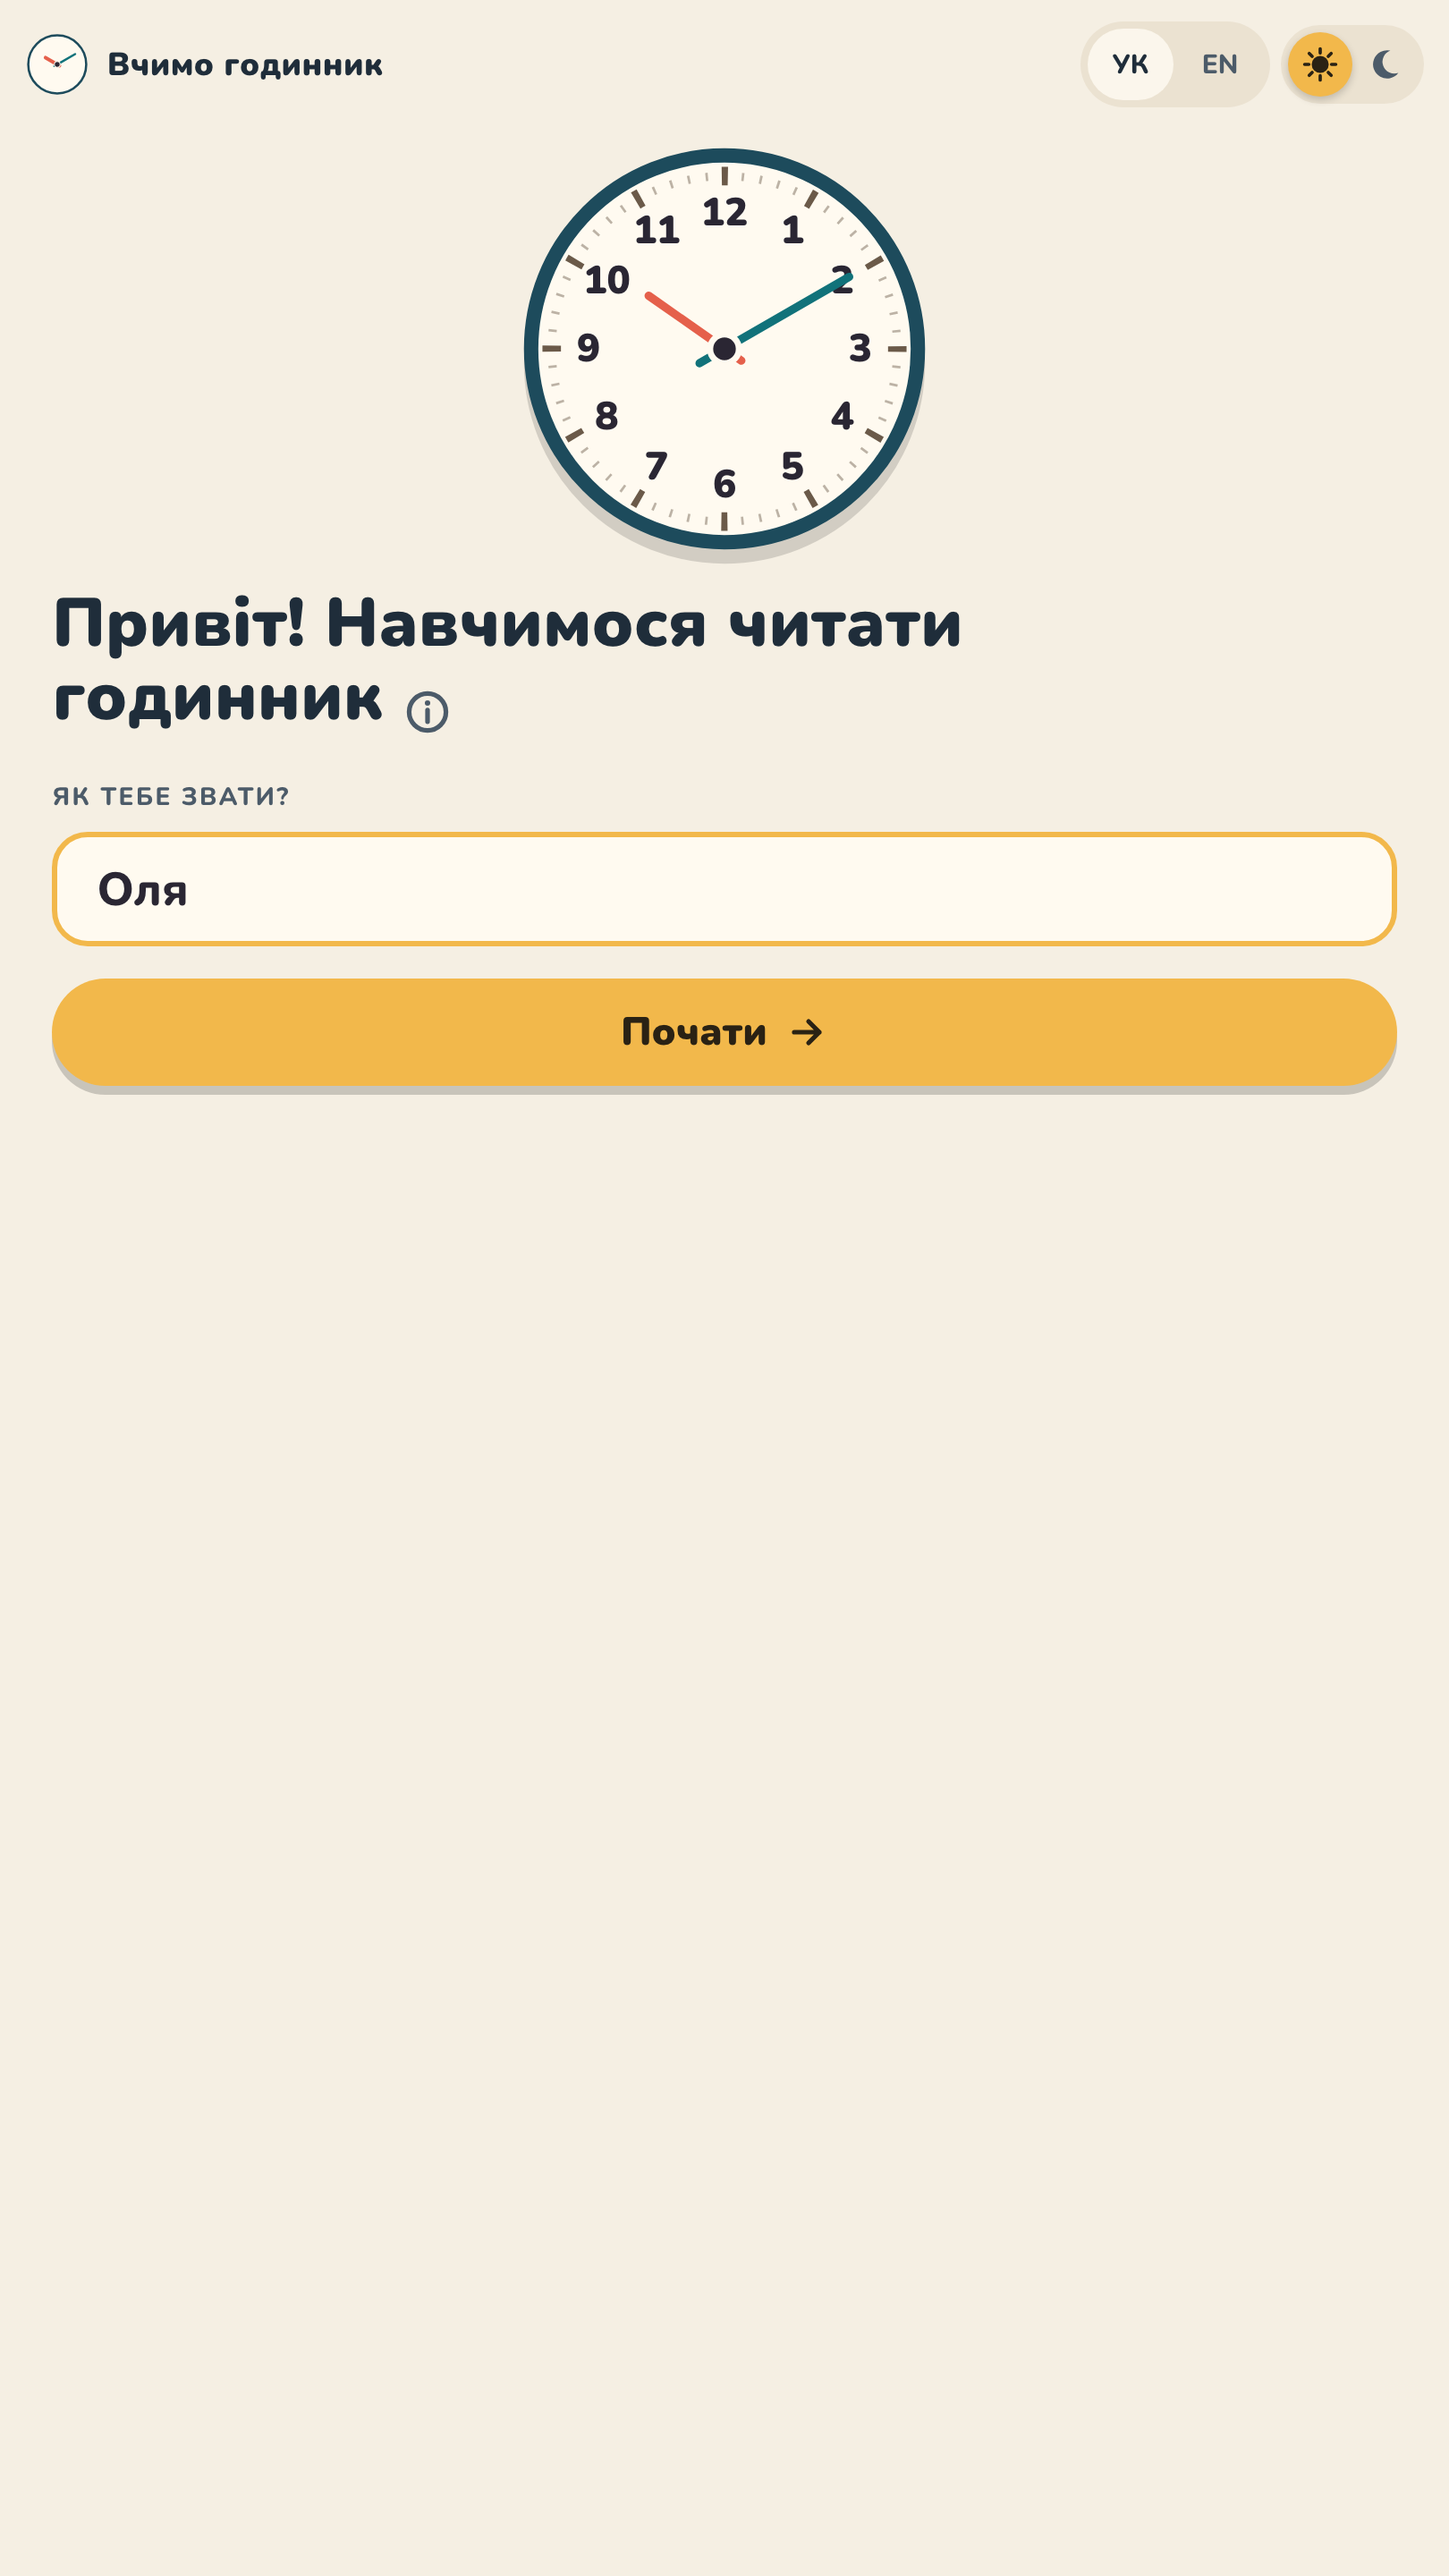
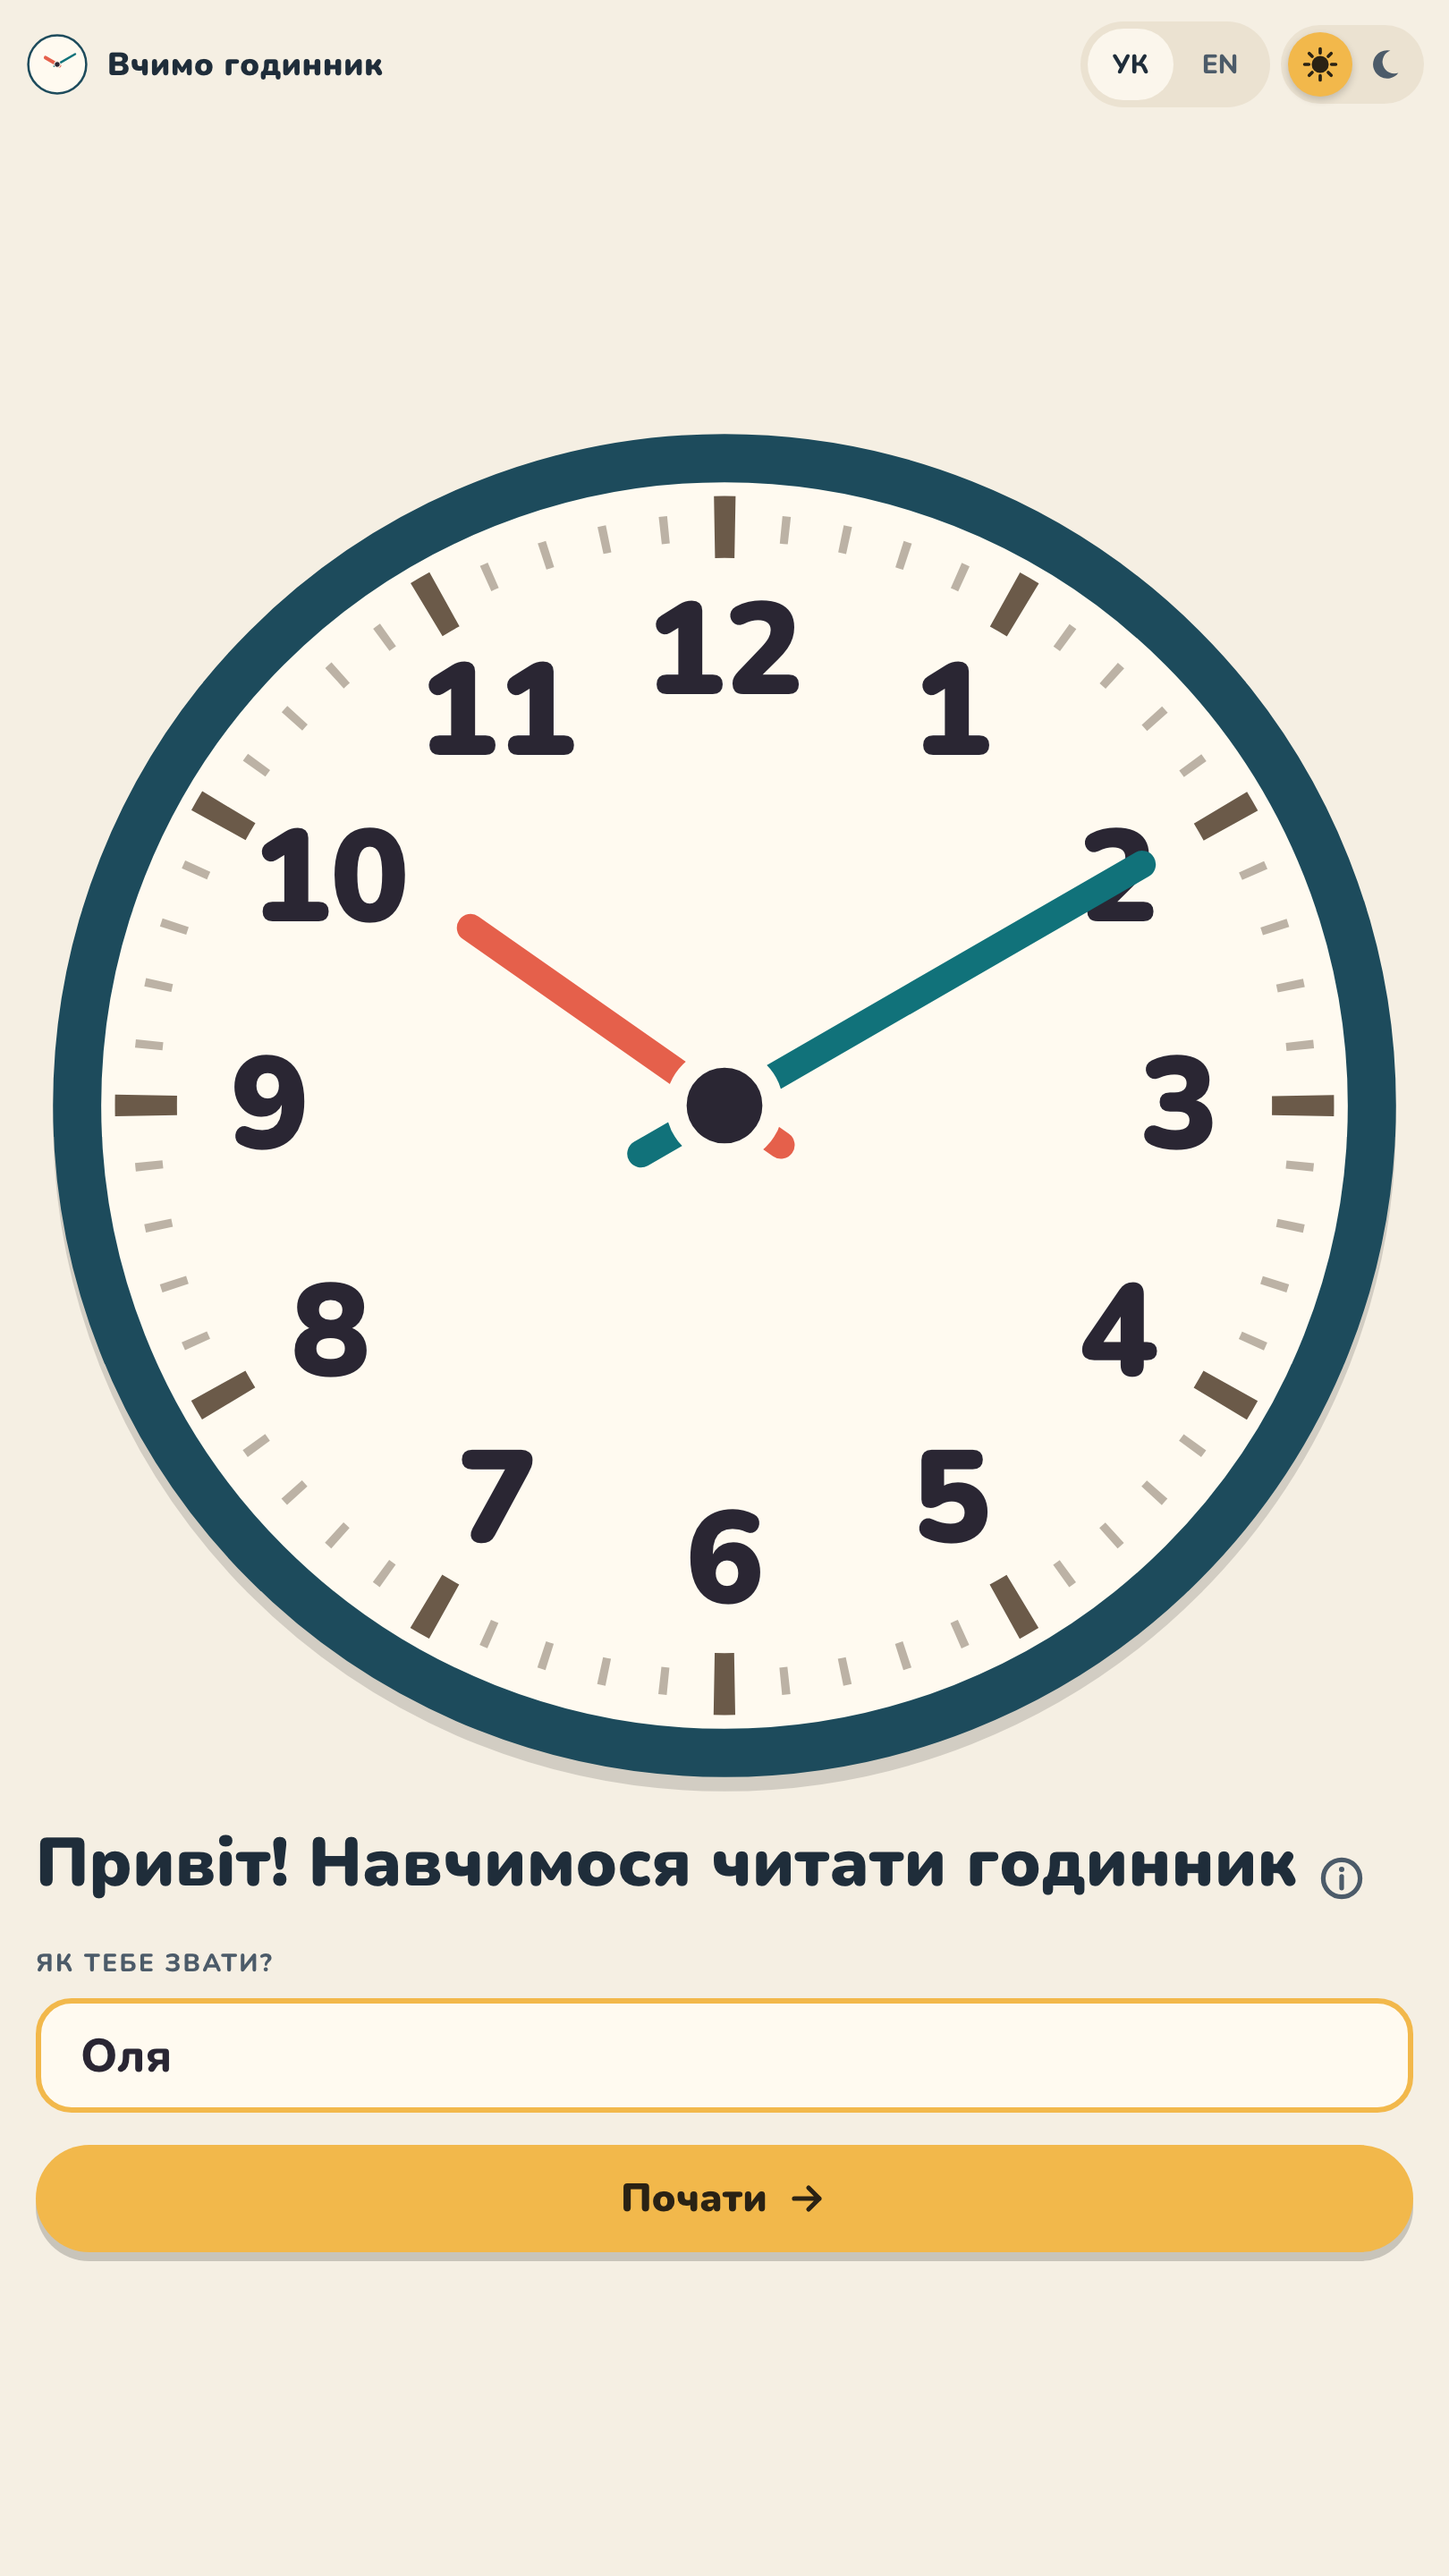
Welcome and Settings fill tall phone-layout screens
Welcome: the clock grows into the height left, bounded by the column's
width (no 230 px cap); the column is full width in every language.
Settings: Back and Play follow the last section instead of being pinned
to the bottom; the block is centred in the room left.
Redraw the 12 Welcome and Settings store shots.

diff --git a/e2e/fits-small-phone.spec.ts b/e2e/fits-small-phone.spec.ts
@@ -62,6 +62,49 @@ test.describe('Welcome on a 360 × 640 phone', () => {
   })
 })
 
+/** The Welcome clock's drawn size: the smaller side of its box, as the face is drawn to fit both. */
+async function welcomeClockSize(page: Page) {
+  return page.locator('.art svg.clock').evaluate((e) => {
+    const box = e.getBoundingClientRect()
+    return Math.min(box.width, box.height)
+  })
+}
+
+test('Welcome on a 412 × 915 phone: a clearly bigger clock than at 360 × 640, Start in view', async ({
+  page,
+}) => {
+  await page.setViewportSize({ width: 360, height: 640 })
+  await page.goto('/')
+  const small = await welcomeClockSize(page)
+
+  await page.setViewportSize({ width: 412, height: 915 })
+  await page.goto('/')
+  const big = await welcomeClockSize(page)
+  expect(big, 'the clock grows into the room').toBeGreaterThanOrEqual(small + 100)
+  expect(big, 'no wider than the column').toBeLessThanOrEqual(412 - 40)
+  const start = page.getByRole('button', { name: t('welcome.start') })
+  expect(await bottomFromPageTop(start), 'Start fits without scrolling').toBeLessThanOrEqual(915)
+  expect(await sidewaysScroll(page)).toBeLessThanOrEqual(0)
+})
+
+for (const locale of ['uk-UA', 'en-US']) {
+  test.describe(`Welcome on an upright 10-inch tablet, ${locale}`, () => {
+    test.use({ viewport: { width: 810, height: 1440 }, locale })
+
+    test('a big clock within the width, the column full width, Start in view', async ({ page }) => {
+      await page.goto('/')
+      const size = await welcomeClockSize(page)
+      expect(size, 'a big clock').toBeGreaterThanOrEqual(500)
+      expect(size, 'within the width').toBeLessThanOrEqual(810 - 40)
+      const field = (await page.locator('#player-name').boundingBox())!
+      expect(field.width, 'the name field spans the column').toBeGreaterThanOrEqual(810 - 60)
+      expect(await bottomFromPageTop(page.locator('form button[type=submit]'))).toBeLessThanOrEqual(
+        1440,
+      )
+    })
+  })
+}
+
 test.describe('Welcome on a desktop', () => {
   test.use({ viewport: { width: 1280, height: 800 }, isMobile: false, hasTouch: false })
 
@@ -118,6 +161,24 @@ test.describe('Settings on a 360 × 640 phone', () => {
     })
   }
 })
+
+for (const size of [
+  { width: 412, height: 915 },
+  { width: 810, height: 1440 },
+]) {
+  test(`Settings on a ${size.width} × ${size.height} screen: Back and Play follow the Mode cards closely`, async ({
+    page,
+  }) => {
+    await page.setViewportSize(size)
+    await toSettings(page)
+    const modes = page.getByRole('group', { name: t('settings.mode') })
+    const play = page.getByRole('button', { name: t('settings.play') })
+    const playTop = await play.evaluate((e) => e.getBoundingClientRect().top + scrollY)
+    // Between them only the Level row (Set Time is the default Game) and the usual gaps.
+    expect(playTop - (await bottomFromPageTop(modes)), 'no big empty gap').toBeLessThanOrEqual(160)
+    expect(await bottomFromPageTop(play)).toBeLessThanOrEqual(size.height)
+  })
+}
 
 test.describe('Settings on a desktop', () => {
   test.use({ viewport: { width: 1280, height: 800 }, isMobile: false, hasTouch: false })

diff --git a/src/views/WelcomeView.vue b/src/views/WelcomeView.vue
@@ -212,21 +212,26 @@ h1 {
     width: 100%;
   }
 
-  /* Upright: one screen down to Start. The clock takes the height left, from about 120 to 230 px;
-     the Footer follows below. A sideways phone is too short for that and scrolls as before. */
+  /* Upright: one screen down to Start. The clock takes the height left, from about 120 px up to the
+     column's width, so a tall screen gets a big clock; what is still left is shared above and below.
+     The column is full width in every language. The Footer follows below. A sideways phone is too
+     short for that and scrolls as before. */
   @media (min-height: 501px) {
     .welcome {
       display: flex;
       flex-direction: column;
+      align-items: stretch;
+      justify-content: center;
       height: calc(100dvh - var(--header-height));
     }
     .art {
       flex: 1 1 0;
       min-height: 120px;
-      max-height: 230px;
+      max-height: calc(100cqi - 40px);
     }
     .clock {
       width: auto;
+      max-width: 100%;
       height: 100%;
     }
     .intro {

diff --git a/src/views/SettingsView.vue b/src/views/SettingsView.vue
@@ -251,6 +251,15 @@ h1 {
     padding: 4px 20px 24px;
     gap: 12px;
   }
+  /* Back and Play follow the last section with the usual gap, not pinned to the screen's bottom,
+     so a tall screen shows no empty band between the cards and the buttons. The block sits in the
+     middle of the room left; on a small phone it fills it anyway. */
+  .settings {
+    justify-content: center;
+  }
+  .spacer {
+    display: none;
+  }
   /* The greeting stays, smaller, to leave room for the cards. */
   h1 {
     font-size: 22px;

diff --git a/.scratch/19-small-screen-phone/issues/06-store-shots.md b/.scratch/19-small-screen-phone/issues/06-store-shots.md
@@ -17,3 +17,5 @@
 **Out of scope:** new or different shots, the listing text, the feature graphic.
 
 **Notes:** the script now leaves the Footer showing on Settings (2): in the phone layout it ends inside the screen at every store size, so hiding it only left a blank strip. Nothing else in the script changed; the 8 Summary shots came out byte-identical. Seen by eye: Welcome (1) and Settings (2) leave a large empty area on the taller sizes (Welcome's clock stays small, Settings' cards end in the top third), and on Welcome the column narrows to the heading's width in English; reported to the batch, not patched here.
+
+**Follow-up (fix/19-tall-screens):** the empty Welcome and Settings shots were fixed in the layout, not the script. On the phone layout the Welcome clock now grows into the height left, up to the column's width (213 px at 360 × 640, 372 at 412 × 915, 770 at 810 × 1440), and the column is full width in both languages; on Settings, Back and Play follow the Mode or Level row with the usual gap and the block sits in the middle of the room. The 12 Welcome and Settings shots were redrawn; the other 36 are unchanged.
